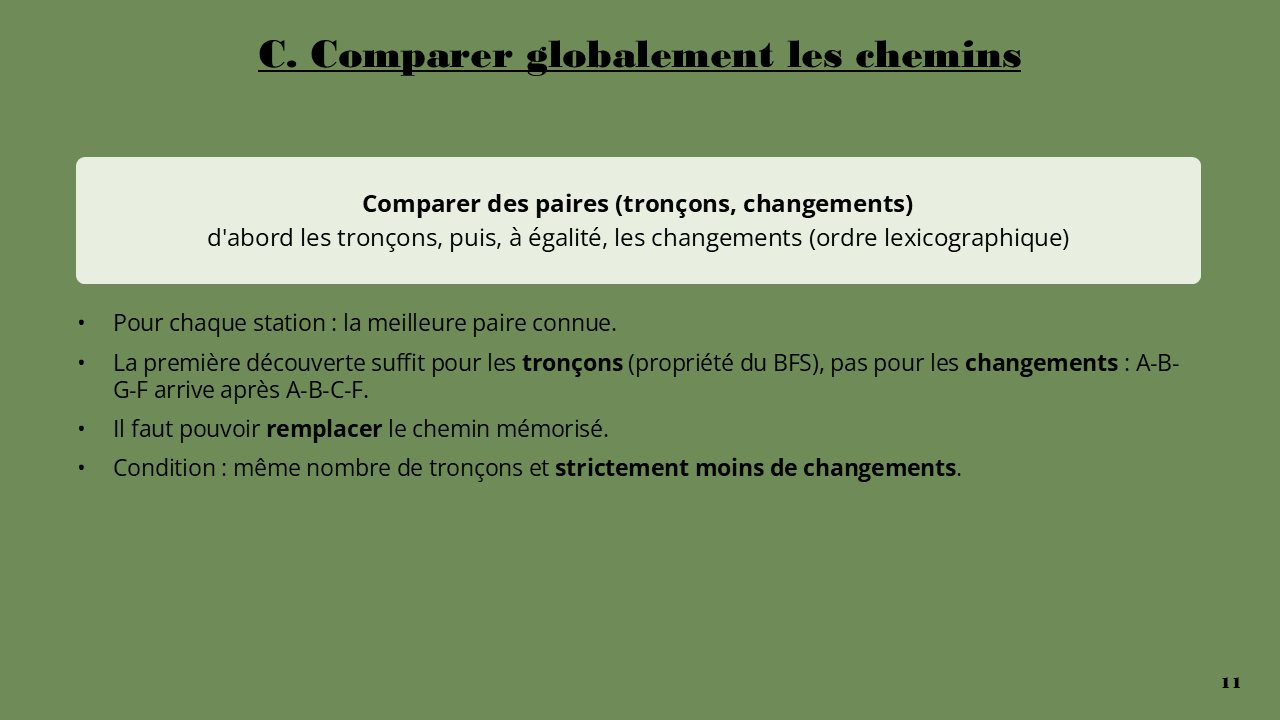
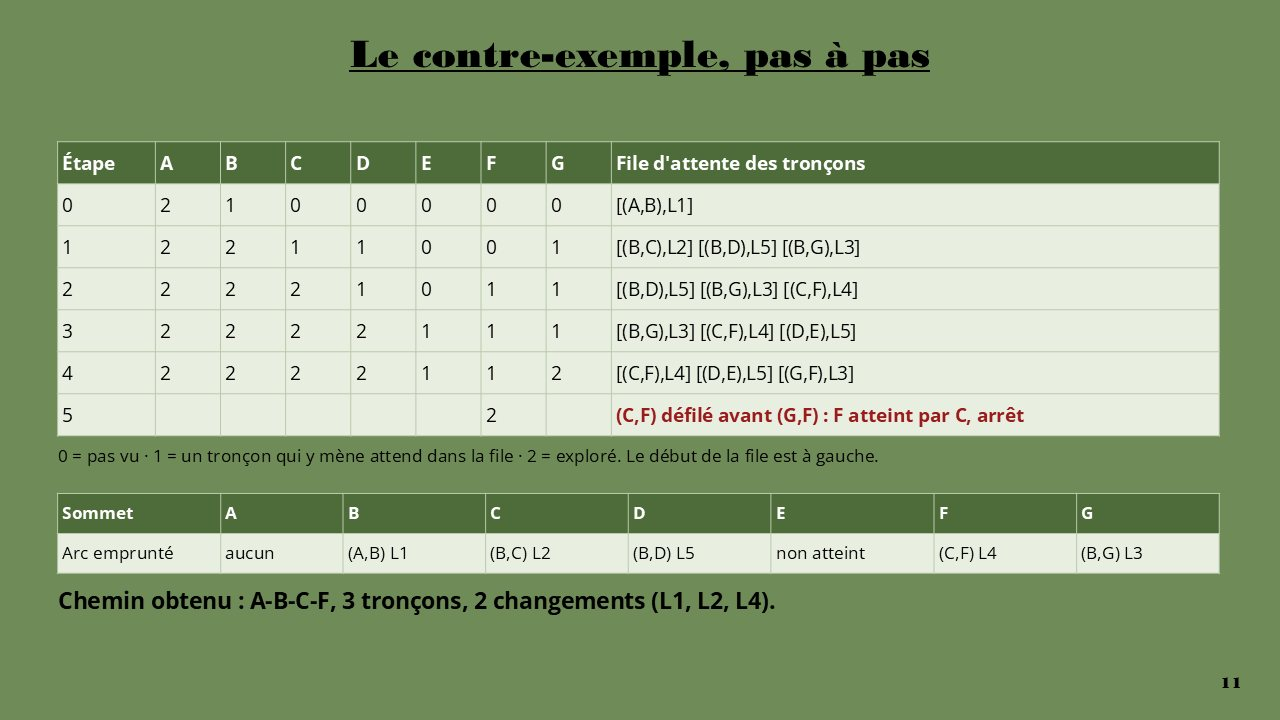
Présentation activité 9 : diapo du contre-exemple pas à pas

diff --git a/index.html b/index.html
@@ -2511,8 +2511,9 @@ for (TronconVoie succ : l_succ) {     // puis ajout à la file (toujours en fin 
       <figure><img src="presentations/s4/a9_08.jpg" alt="Diapo 8 : Q6-8 BFS/DFS" loading="lazy"><figcaption>8. Q6-8 BFS/DFS</figcaption></figure>
       <figure><img src="presentations/s4/a9_09.jpg" alt="Diapo 9 : Q9-10 préférentiel" loading="lazy"><figcaption>9. Q9-10 préférentiel</figcaption></figure>
       <figure><img src="presentations/s4/a9_10.jpg" alt="Diapo 10 : Q11 contre-exemple" loading="lazy"><figcaption>10. Q11 contre-exemple</figcaption></figure>
-      <figure><img src="presentations/s4/a9_11.jpg" alt="Diapo 11 : Q12 comparaison globale" loading="lazy"><figcaption>11. Q12 comparaison globale</figcaption></figure>
-      <figure><img src="presentations/s4/a9_12.jpg" alt="Diapo 12 : Conclusion" loading="lazy"><figcaption>12. Conclusion</figcaption></figure>
+      <figure><img src="presentations/s4/a9_11.jpg" alt="Diapo 11 : Q11 tableau pas à pas" loading="lazy"><figcaption>11. Q11 tableau pas à pas</figcaption></figure>
+      <figure><img src="presentations/s4/a9_12.jpg" alt="Diapo 12 : Q12 comparaison globale" loading="lazy"><figcaption>12. Q12 comparaison globale</figcaption></figure>
+      <figure><img src="presentations/s4/a9_13.jpg" alt="Diapo 13 : Conclusion" loading="lazy"><figcaption>13. Conclusion</figcaption></figure>
     </div>
     <details class="cx"><summary>Texte oral — Activité 9 — plus courts itinéraires dans le métro</summary><div class="cxb">
       <p><b>Diapo 1 — Titre.</b> Cette activité modélise le métro parisien par un graphe et cherche des itinéraires avec un BFS. On regarde d&#x27;abord le modèle et le code fourni, puis on montre que le BFS minimise le nombre de tronçons mais pas le nombre de changements, on teste deux idées pour corriger, et on arrive à la nécessité de Dijkstra.</p>
@@ -2525,8 +2526,9 @@ for (TronconVoie succ : l_succ) {     // puis ajout à la file (toujours en fin 
       <p><b>Diapo 8 — Q6-8 BFS/DFS.</b> Questions 6 à 8. Première idée : mélanger BFS et DFS, en mettant en tête de file le tronçon qui poursuit la même ligne. De Tolbiac à Jussieu, c&#x27;est mieux : même nombre de tronçons mais zéro changement au lieu de deux. Mais de Tolbiac à Gare de l&#x27;Est, on obtient 17 tronçons au lieu de 12 : ce n&#x27;est plus un plus court chemin. La raison, c&#x27;est qu&#x27;en insérant en tête de file on explore en profondeur le long de la ligne, la file n&#x27;est plus FIFO, donc la première découverte d&#x27;une station n&#x27;est plus la plus proche en nombre de tronçons. On perd la propriété du BFS.</p>
       <p><b>Diapo 9 — Q9-10 préférentiel.</b> Question 9 et 10. Dans rechercherItineraireBFS_préférentiel, ce sont ces lignes qui ordonnent les successeurs. On range d&#x27;abord les successeurs dans une liste temporaire : ceux qui poursuivent la ligne vont en tête, ceux qui changent de ligne vont en queue. Puis on les ajoute en fin de file dans cet ordre, donc la file reste FIFO et on reste un BFS. Sur les deux exemples précédents, on garde le même nombre de tronçons avec moins de changements : zéro au lieu de deux pour Jussieu, un au lieu de trois pour Cambrone.</p>
       <p><b>Diapo 10 — Q11 contre-exemple.</b> Question 11. Non, cette stratégie ne garantit pas d&#x27;éviter les changements inutiles. Contre-exemple sur le réseau A à G, de A vers F, avec les successeurs de B lus dans l&#x27;ordre C, D, G. Le préférentiel trouve A, B, C, F : trois tronçons et deux changements. Or A, B, G, F a aussi trois tronçons mais un seul changement. Si G était avant C dans la liste de B, le préférentiel trouverait le bon chemin : il réussit par hasard. L&#x27;ordre préférentiel est donc un avantage local : il ne compare pas le nombre total de changements depuis le départ, et la première découverte d&#x27;un sommet fixe son chemin. Et si plusieurs lignes partent de la station de départ, il n&#x27;y a aucun tronçon précédent à poursuivre : le choix initial est arbitraire.</p>
-      <p><b>Diapo 11 — Q12 comparaison globale.</b> Question 12. Pour minimiser d&#x27;abord le nombre de tronçons puis, à égalité, le nombre de changements, on associe à chaque chemin la paire tronçons, changements, et on compare dans cet ordre, donc de façon lexicographique. La première découverte d&#x27;un sommet ne suffit plus : pour les tronçons oui, c&#x27;est la propriété du BFS, mais un chemin découvert plus tard, de même longueur, peut avoir moins de changements. Il faut donc pouvoir remplacer le chemin mémorisé quand le nouveau chemin a le même nombre de tronçons et strictement moins de changements.</p>
-      <p><b>Diapo 12 — Conclusion.</b> Pour conclure : marquer un sommet dès sa première découverte suffit pour avoir le plus petit nombre de tronçons, mais ça ne suffit plus pour optimiser un second critère parmi les chemins de même longueur. Il faut mémoriser plusieurs informations sur les chemins trouvés, autoriser leur amélioration, et déterminer quand le meilleur chemin vers un sommet est définitif. C&#x27;est exactement ce que fait l&#x27;algorithme de Dijkstra, qu&#x27;on voit dans le chapitre 5.</p>
+      <p><b>Diapo 11 — Q11 tableau pas à pas.</b> Voici le déroulé pas à pas du contre-exemple avec l&#x27;ordre préférentiel. Étape 1 : on défile le tronçon A vers B, B est exploré, ses trois successeurs C, D et G changent tous de ligne donc ils vont en fin de file, dans l&#x27;ordre du fichier. Étape 2 : on défile B vers C, on enfile C vers F. Étape 3 : on défile B vers D, on enfile D vers E. Étape 4 : on défile B vers G, on enfile G vers F. Étape 5 : on défile C vers F avant G vers F, donc F est atteint par C et on s&#x27;arrête. En remontant les arcs empruntés, on obtient A, B, C, F : trois tronçons et deux changements, alors que A, B, G, F n&#x27;en a qu&#x27;un. Si G était lu avant C dans la liste de B, G vers F serait défilé en premier et on aurait le bon chemin : c&#x27;est le hasard de l&#x27;ordre du fichier.</p>
+      <p><b>Diapo 12 — Q12 comparaison globale.</b> Question 12. Pour minimiser d&#x27;abord le nombre de tronçons puis, à égalité, le nombre de changements, on associe à chaque chemin la paire tronçons, changements, et on compare dans cet ordre, donc de façon lexicographique. La première découverte d&#x27;un sommet ne suffit plus : pour les tronçons oui, c&#x27;est la propriété du BFS, mais un chemin découvert plus tard, de même longueur, peut avoir moins de changements. Il faut donc pouvoir remplacer le chemin mémorisé quand le nouveau chemin a le même nombre de tronçons et strictement moins de changements.</p>
+      <p><b>Diapo 13 — Conclusion.</b> Pour conclure : marquer un sommet dès sa première découverte suffit pour avoir le plus petit nombre de tronçons, mais ça ne suffit plus pour optimiser un second critère parmi les chemins de même longueur. Il faut mémoriser plusieurs informations sur les chemins trouvés, autoriser leur amélioration, et déterminer quand le meilleur chemin vers un sommet est définitif. C&#x27;est exactement ce que fait l&#x27;algorithme de Dijkstra, qu&#x27;on voit dans le chapitre 5.</p>
     </div></details>
     <h3>Chapitre 5 / Exercice 9 — algorithme de Dijkstra</h3>
     <p>Graphes pondérés, Dijkstra, exercice 9 déroulé depuis B, complexité, limites. <a class="btn" href="presentations/s4/Chapitre5_Dijkstra_presentation.pptx" download>⬇ Chapitre5_Dijkstra_presentation.pptx</a></p>

diff --git a/parts/s4_pres.html b/parts/s4_pres.html
@@ -15,8 +15,9 @@
       <figure><img src="presentations/s4/a9_08.jpg" alt="Diapo 8 : Q6-8 BFS/DFS" loading="lazy"><figcaption>8. Q6-8 BFS/DFS</figcaption></figure>
       <figure><img src="presentations/s4/a9_09.jpg" alt="Diapo 9 : Q9-10 préférentiel" loading="lazy"><figcaption>9. Q9-10 préférentiel</figcaption></figure>
       <figure><img src="presentations/s4/a9_10.jpg" alt="Diapo 10 : Q11 contre-exemple" loading="lazy"><figcaption>10. Q11 contre-exemple</figcaption></figure>
-      <figure><img src="presentations/s4/a9_11.jpg" alt="Diapo 11 : Q12 comparaison globale" loading="lazy"><figcaption>11. Q12 comparaison globale</figcaption></figure>
-      <figure><img src="presentations/s4/a9_12.jpg" alt="Diapo 12 : Conclusion" loading="lazy"><figcaption>12. Conclusion</figcaption></figure>
+      <figure><img src="presentations/s4/a9_11.jpg" alt="Diapo 11 : Q11 tableau pas à pas" loading="lazy"><figcaption>11. Q11 tableau pas à pas</figcaption></figure>
+      <figure><img src="presentations/s4/a9_12.jpg" alt="Diapo 12 : Q12 comparaison globale" loading="lazy"><figcaption>12. Q12 comparaison globale</figcaption></figure>
+      <figure><img src="presentations/s4/a9_13.jpg" alt="Diapo 13 : Conclusion" loading="lazy"><figcaption>13. Conclusion</figcaption></figure>
     </div>
     <details class="cx"><summary>Texte oral — Activité 9 — plus courts itinéraires dans le métro</summary><div class="cxb">
       <p><b>Diapo 1 — Titre.</b> Cette activité modélise le métro parisien par un graphe et cherche des itinéraires avec un BFS. On regarde d&#x27;abord le modèle et le code fourni, puis on montre que le BFS minimise le nombre de tronçons mais pas le nombre de changements, on teste deux idées pour corriger, et on arrive à la nécessité de Dijkstra.</p>
@@ -29,8 +30,9 @@
       <p><b>Diapo 8 — Q6-8 BFS/DFS.</b> Questions 6 à 8. Première idée : mélanger BFS et DFS, en mettant en tête de file le tronçon qui poursuit la même ligne. De Tolbiac à Jussieu, c&#x27;est mieux : même nombre de tronçons mais zéro changement au lieu de deux. Mais de Tolbiac à Gare de l&#x27;Est, on obtient 17 tronçons au lieu de 12 : ce n&#x27;est plus un plus court chemin. La raison, c&#x27;est qu&#x27;en insérant en tête de file on explore en profondeur le long de la ligne, la file n&#x27;est plus FIFO, donc la première découverte d&#x27;une station n&#x27;est plus la plus proche en nombre de tronçons. On perd la propriété du BFS.</p>
       <p><b>Diapo 9 — Q9-10 préférentiel.</b> Question 9 et 10. Dans rechercherItineraireBFS_préférentiel, ce sont ces lignes qui ordonnent les successeurs. On range d&#x27;abord les successeurs dans une liste temporaire : ceux qui poursuivent la ligne vont en tête, ceux qui changent de ligne vont en queue. Puis on les ajoute en fin de file dans cet ordre, donc la file reste FIFO et on reste un BFS. Sur les deux exemples précédents, on garde le même nombre de tronçons avec moins de changements : zéro au lieu de deux pour Jussieu, un au lieu de trois pour Cambrone.</p>
       <p><b>Diapo 10 — Q11 contre-exemple.</b> Question 11. Non, cette stratégie ne garantit pas d&#x27;éviter les changements inutiles. Contre-exemple sur le réseau A à G, de A vers F, avec les successeurs de B lus dans l&#x27;ordre C, D, G. Le préférentiel trouve A, B, C, F : trois tronçons et deux changements. Or A, B, G, F a aussi trois tronçons mais un seul changement. Si G était avant C dans la liste de B, le préférentiel trouverait le bon chemin : il réussit par hasard. L&#x27;ordre préférentiel est donc un avantage local : il ne compare pas le nombre total de changements depuis le départ, et la première découverte d&#x27;un sommet fixe son chemin. Et si plusieurs lignes partent de la station de départ, il n&#x27;y a aucun tronçon précédent à poursuivre : le choix initial est arbitraire.</p>
-      <p><b>Diapo 11 — Q12 comparaison globale.</b> Question 12. Pour minimiser d&#x27;abord le nombre de tronçons puis, à égalité, le nombre de changements, on associe à chaque chemin la paire tronçons, changements, et on compare dans cet ordre, donc de façon lexicographique. La première découverte d&#x27;un sommet ne suffit plus : pour les tronçons oui, c&#x27;est la propriété du BFS, mais un chemin découvert plus tard, de même longueur, peut avoir moins de changements. Il faut donc pouvoir remplacer le chemin mémorisé quand le nouveau chemin a le même nombre de tronçons et strictement moins de changements.</p>
-      <p><b>Diapo 12 — Conclusion.</b> Pour conclure : marquer un sommet dès sa première découverte suffit pour avoir le plus petit nombre de tronçons, mais ça ne suffit plus pour optimiser un second critère parmi les chemins de même longueur. Il faut mémoriser plusieurs informations sur les chemins trouvés, autoriser leur amélioration, et déterminer quand le meilleur chemin vers un sommet est définitif. C&#x27;est exactement ce que fait l&#x27;algorithme de Dijkstra, qu&#x27;on voit dans le chapitre 5.</p>
+      <p><b>Diapo 11 — Q11 tableau pas à pas.</b> Voici le déroulé pas à pas du contre-exemple avec l&#x27;ordre préférentiel. Étape 1 : on défile le tronçon A vers B, B est exploré, ses trois successeurs C, D et G changent tous de ligne donc ils vont en fin de file, dans l&#x27;ordre du fichier. Étape 2 : on défile B vers C, on enfile C vers F. Étape 3 : on défile B vers D, on enfile D vers E. Étape 4 : on défile B vers G, on enfile G vers F. Étape 5 : on défile C vers F avant G vers F, donc F est atteint par C et on s&#x27;arrête. En remontant les arcs empruntés, on obtient A, B, C, F : trois tronçons et deux changements, alors que A, B, G, F n&#x27;en a qu&#x27;un. Si G était lu avant C dans la liste de B, G vers F serait défilé en premier et on aurait le bon chemin : c&#x27;est le hasard de l&#x27;ordre du fichier.</p>
+      <p><b>Diapo 12 — Q12 comparaison globale.</b> Question 12. Pour minimiser d&#x27;abord le nombre de tronçons puis, à égalité, le nombre de changements, on associe à chaque chemin la paire tronçons, changements, et on compare dans cet ordre, donc de façon lexicographique. La première découverte d&#x27;un sommet ne suffit plus : pour les tronçons oui, c&#x27;est la propriété du BFS, mais un chemin découvert plus tard, de même longueur, peut avoir moins de changements. Il faut donc pouvoir remplacer le chemin mémorisé quand le nouveau chemin a le même nombre de tronçons et strictement moins de changements.</p>
+      <p><b>Diapo 13 — Conclusion.</b> Pour conclure : marquer un sommet dès sa première découverte suffit pour avoir le plus petit nombre de tronçons, mais ça ne suffit plus pour optimiser un second critère parmi les chemins de même longueur. Il faut mémoriser plusieurs informations sur les chemins trouvés, autoriser leur amélioration, et déterminer quand le meilleur chemin vers un sommet est définitif. C&#x27;est exactement ce que fait l&#x27;algorithme de Dijkstra, qu&#x27;on voit dans le chapitre 5.</p>
     </div></details>
     <h3>Chapitre 5 / Exercice 9 — algorithme de Dijkstra</h3>
     <p>Graphes pondérés, Dijkstra, exercice 9 déroulé depuis B, complexité, limites. <a class="btn" href="presentations/s4/Chapitre5_Dijkstra_presentation.pptx" download>⬇ Chapitre5_Dijkstra_presentation.pptx</a></p>
